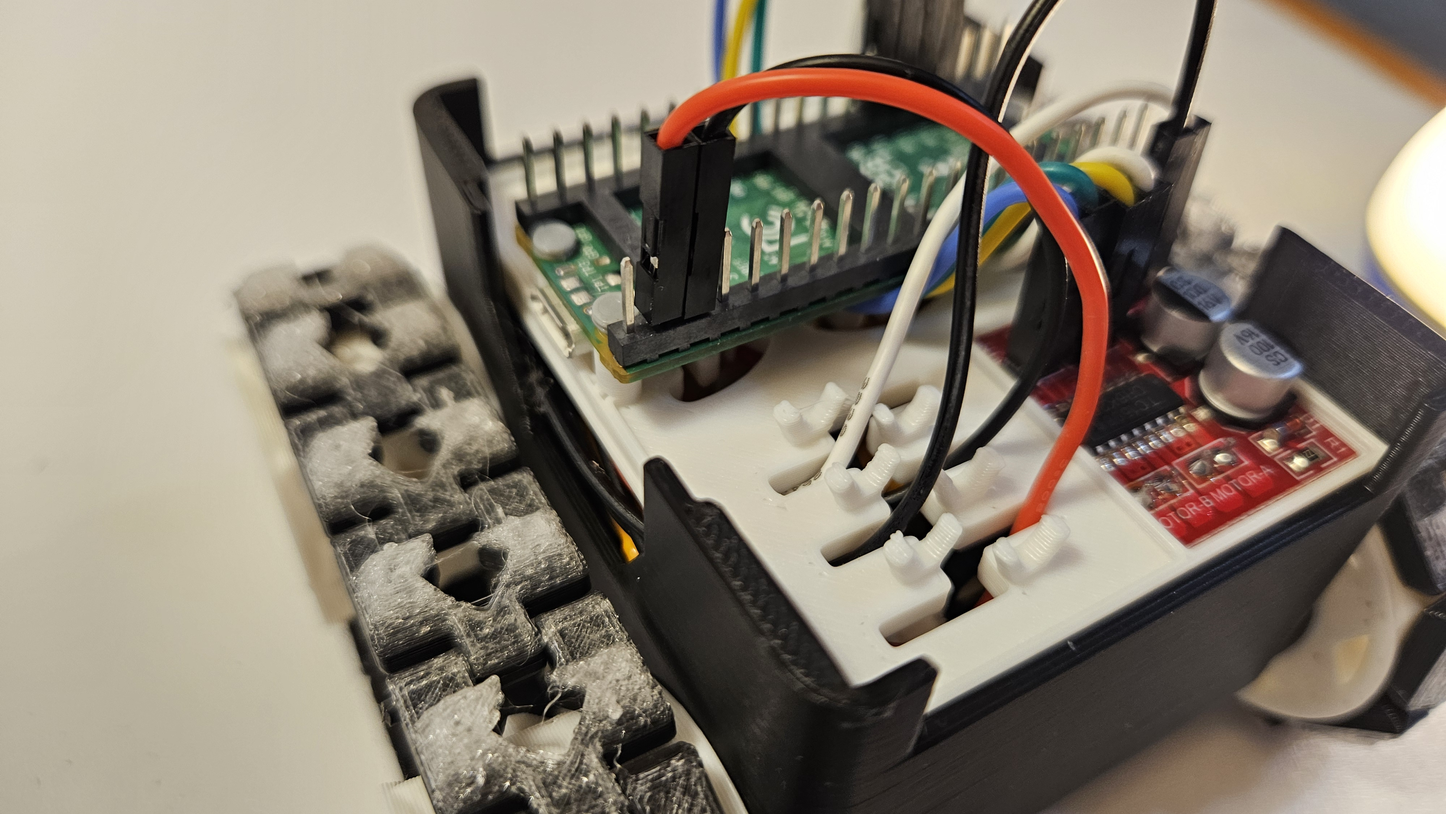
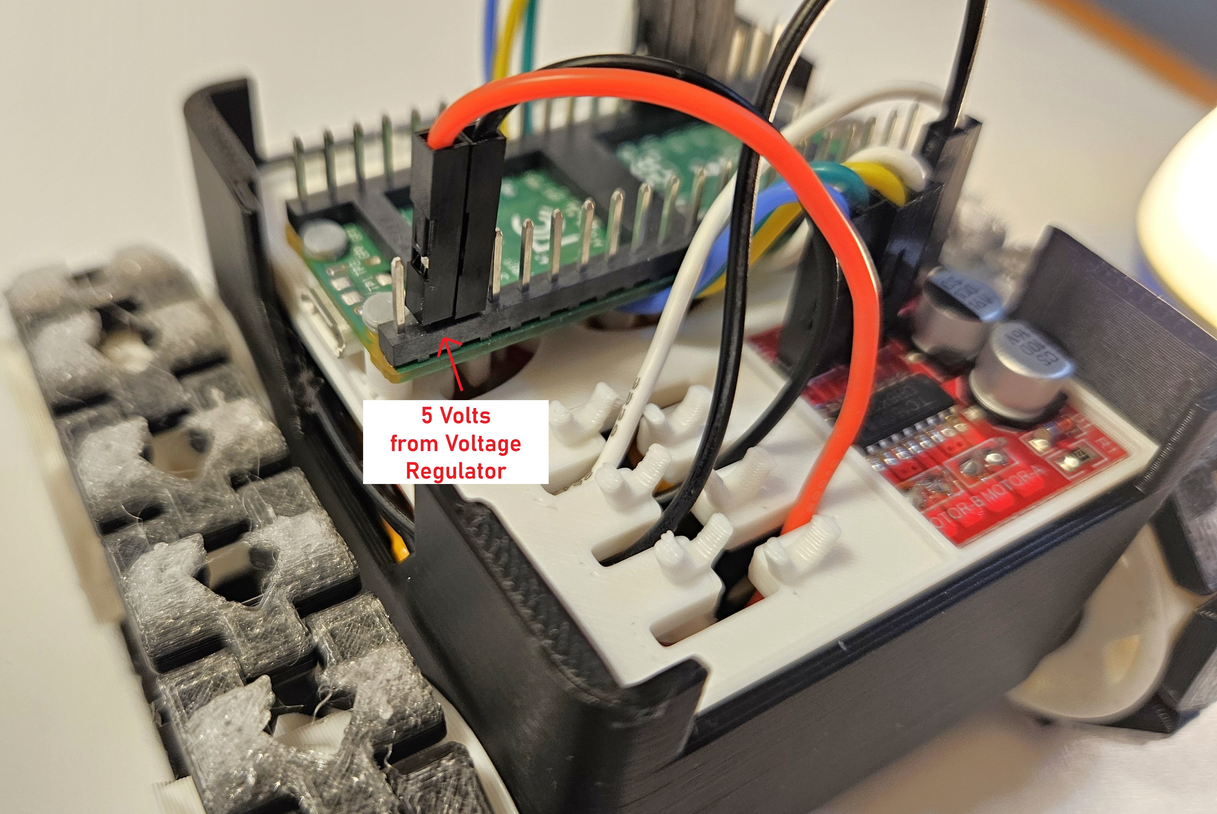
plate_chassis.md updated to v3

diff --git a/lessons/assembly/plate_chassis.md b/lessons/assembly/plate_chassis.md
@@ -37,26 +37,40 @@ Now we will try to push the Pico Plate into is final recessed position on the ch
 <img alt="Pico Plate On Chassis" src="../images/assembly/v3/PowerCablesPicoPlate3.jpg" width="500"/>
 
 
-Carefully push the plate down onto the chassis.  Make sure that the wires aren't disconnected or pinched between the plate and chassis.  The plate should sit flush with the cutout in the front and rear of the chassis.
+Your goal now is to carefully push the plate down onto the chassis. Make sure that the wires aren't disconnected or pinched between the plate and chassis. You may need to pull up on the ends of the power wires to bring slack up above the Pico Plate.  Continue to gently push the Pico plate down onto the chassis while keeping the wires from getting pinched. The plate should sit flush with the cutout in the front and rear of the chassis.
 
-<img alt="Pico Plate on Chassis" src="../images/assembly/pico_plate_on_chassis_power_cables.jpg" width="500"/>
+<img alt="Pico Plate on Chassis Flush back" src="../images/assembly/v3/
+PicoPlateChassisPushDown.jpg" width="500"/>  
 
-Now it's time to connect the power cables from the voltage regulator and battery to the Pico and motor controller.
+<img alt="Pico Plate on Chassis Flush back 2" src="../images/assembly/v3/PicoPlateChassisPushDown2.jpg" width="500"/>  
 
-Take the two red wires and connect one to the Pico's VSYS pin (left side, second down from the top in the below picture).  The other red wire goes to the (+) pin on the motor controller.  
+Ensure the Pico is pushed down and flush with the front and back edges of the chassis.  You may have to reposition the wires underneath a few times and tuck them down in crevices by the motors to get it to fit flush.
+
+<img alt="Pico Plate on Chassis Flush Front" src="../images/assembly/v3/PicoPlateChassisPowerCables.jpg" width="500"/>
+
+
+Now it's time to connect the power cables from the voltage regulator.  Connect either of the ground (black) wires to the (-) pin on the motor controller and connect the 9Volt positive wire (should be white) to the (+) pin on the motor controller.  The negative/ground pin is the one 
+
+<img alt="Motor Controller Power Wires" src="../images/assembly/v3/MotorControllerPower2.jpg" width="500"/>
+
+Now we need to connect the power to the Pico. 
+Take the positive wire coming from the voltage regulator that should carry our 5 volts the Pico's VSYS pin (left side, second down from the ).  The other ground wire (black) connects right beside the VSYS pin into a GND(ground) pin on the Pico.  See the picture below and be sure to notice there is one single empty pin to the left of the positive wire and your red wire is connected to the second pin from the left in the picture below. There is always ground 3 pins in from any side on the Pico.
 
 Here's a pinout diagram if you want to use it instead of the pictures:  
 <details><summary> Click here to hide/show Pico Pin Out.</summary> 
  <img src="../images/picoPinOut.PNG"/>
 </details>
 
+
+<img alt="Pico Power Wires" src="../images/assembly/v3/PicoPowerConnected.jpg" width="500"/>
+
 The ground/black wire goes to a ground pin on the Pico.  We recommend the ground pin right next to the VSYS.  That is 3 pins down from the top left in the picture.
 
-<img alt="Pico Plate on Chassis Power Connnected" src="../images/assembly/pico_plate_power_wire_routing_top.jpg" width="500"/>
+### Test the Motors
 
-<img alt="Pico Plate on Chassis USB Side" src="../images/assembly/pico_plate_usb_side.jpg" width="500"/>
+TODO: Add instructions to test the motors via a simple program on they load on the Pico.  Similar to the motor controller lesson. Preferably the same code.
 
-<img alt="Pico Plate Front Installed" src="../images/assembly/pico_plate_installed_front.jpg" width="500"/>
+### Install Rover Code
 
 Congratulations! You are super close to having a mobile rover!
 
